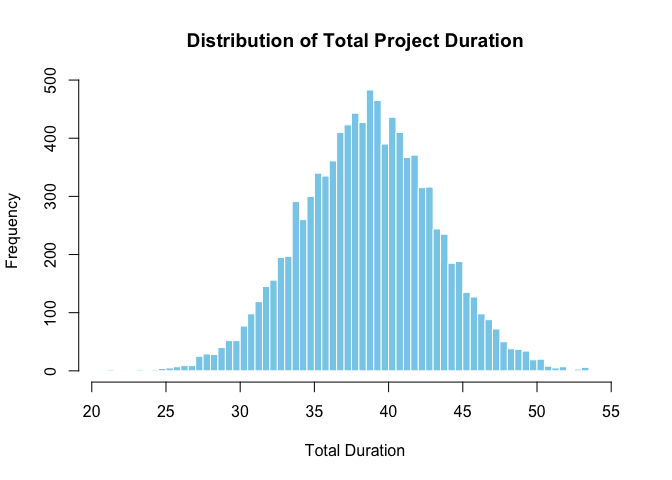
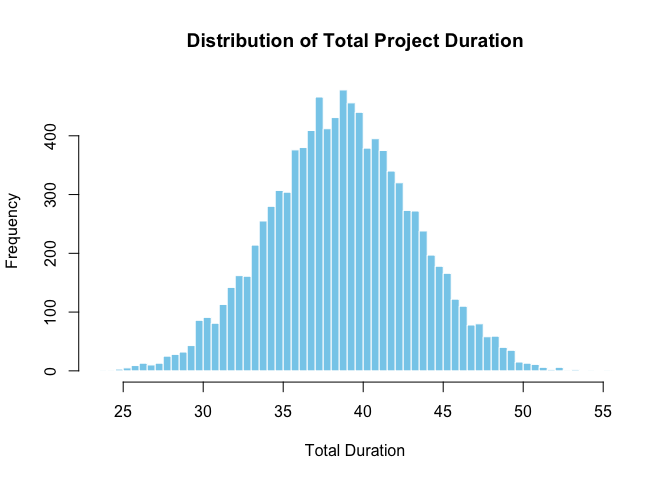
Update Readme

diff --git a/README.md b/README.md
@@ -13,6 +13,8 @@ style="width:25.0%" />
 experimental](https://img.shields.io/badge/lifecycle-experimental-orange.svg)](https://lifecycle.r-lib.org/articles/stages.html#experimental)
 [![CRAN
 status](https://www.r-pkg.org/badges/version/PRA)](https://CRAN.R-project.org/package=PRA)
+![](http://cranlogs.r-pkg.org/badges/PRA)
+![](http://cranlogs.r-pkg.org/badges/grand-total/PRA)
 <!-- badges: end -->
 
 Data Analysis for Project Risk Managment via the Second Moment Method
@@ -55,12 +57,12 @@ correlation_matrix <- matrix(c(
 
 results <- mcs(num_simulations, task_distributions, correlation_matrix)
 cat("Mean Total Duration:", results$total_mean, "\n")
-#> Mean Total Duration: 38.61415
+#> Mean Total Duration: 38.6582
 ```
 
 ``` r
 cat("Variance of Total Duration:", results$total_variance, "\n")
-#> Variance of Total Duration: 19.97797
+#> Variance of Total Duration: 19.92074
 ```
 
 ``` r
